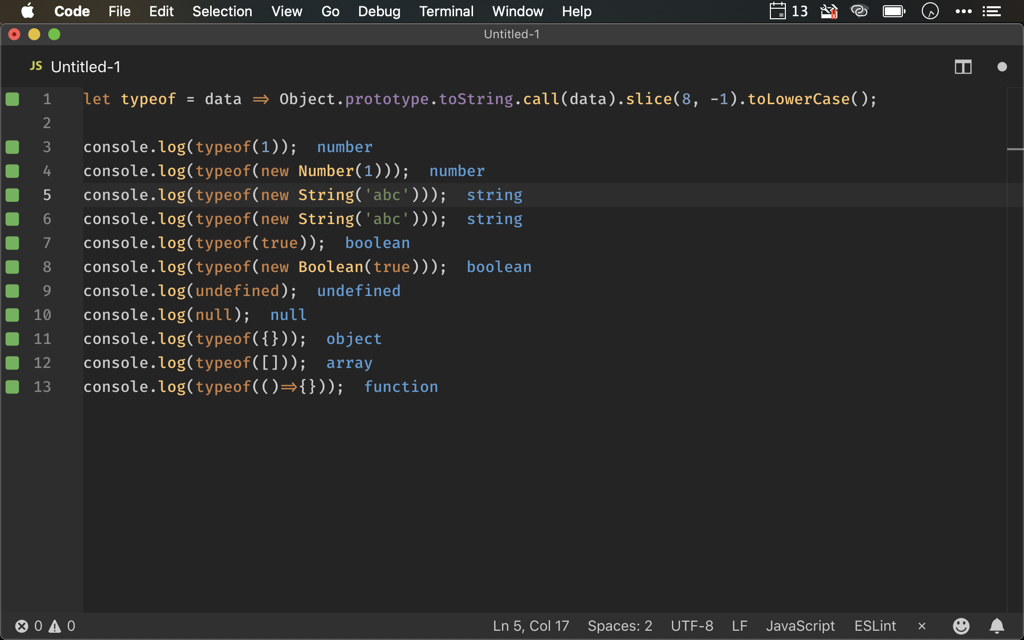
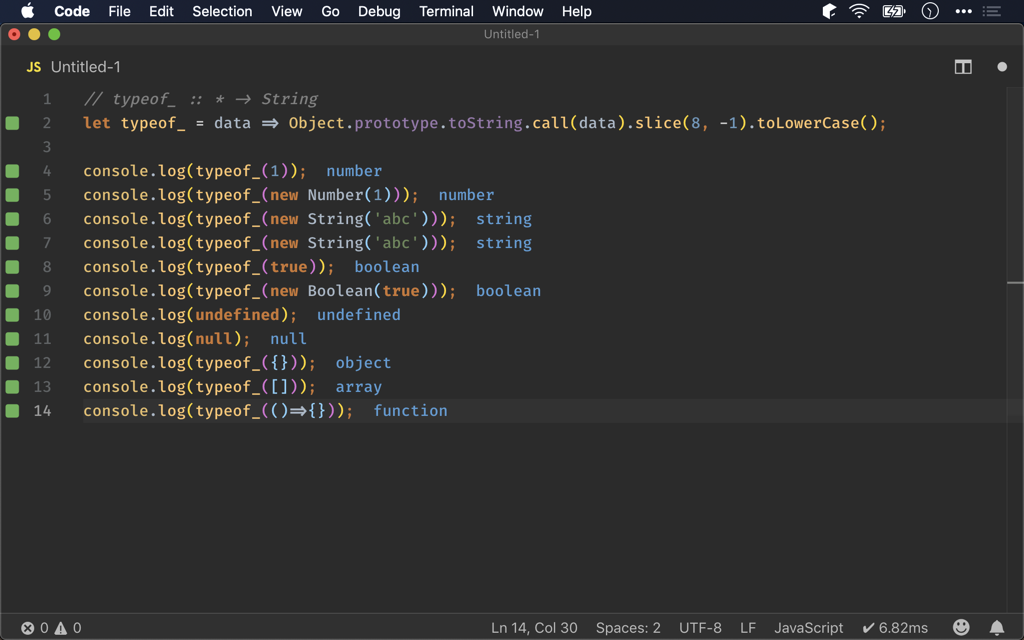
如何判斷 ECMAScript 變數型別 ?

diff --git a/source/_posts/ecmascript/detect-type.md b/source/_posts/ecmascript/detect-type.md
@@ -1,10 +1,11 @@
 title: 如何判斷 ECMAScript 變數型別 ?
 tags:
   - ECMAScript
+  - Ramda
 feature: images/feature/ecmascript.png
 date: 2019-05-22 15:34:43
 ---
-ECMAScript 雖然是 Dynamic Language，但並不代表 Variable 沒有 Type，只是其內建獲得 Type 的方式包含太多 `驚喜`，成為備受爭議的部分。本文整理出 4 種獲得 Type 方式，各有其優缺點，最後整理出自己的 `typeof()`，可以判斷出各種 Type。
+ECMAScript 雖然是 Dynamic Type Language，但並不代表 Variable 沒有 Type，只是其內建獲得 Type 方法包含太多 `驚喜`，成為備受爭議部分。本文整理出 4 種獲得 Type 方式，各有其優缺點，最後自訂 `typeof_()`，可判斷各種 Type。
 
 <!-- more -->
 
@@ -17,13 +18,13 @@ Ramda 0.26.1
 
 ## Type
 
-本文將介紹 5 種獲得 Type 方法：
+本文將介紹 5 種獲得 Type 方式：
 
-1. 內建的 `typeof` operator
-2. 內建的 `instanceof` operator
-3. 內建的 `Object.prototype.toString()` function
-4. Ramda 的 `is()` function
-5. 自己寫的 `typeof()`
+1. 內建的 `typeof` 
+2. 內建的 `instanceof` 
+3. 內建的 `Object.prototype.toString()`
+4. Ramda 的 `is()`
+5. 自訂 `typeof_()`
 
 ## Number
 
@@ -33,7 +34,7 @@ Number 共有 3 種建立方法：
 2. Number function
 3. Number constructor
 
-實務上最常使用的是的 number literal，轉型時會使用 number function (或使用 `+` operator)，但 number constructor 實務上不建議使用。
+實務上最常使用 number literal，轉型時會使用 number function (或使用 `+`)，但 number constructor 實務上不建議使用。
 
 ```javascript
 import { is } from 'ramda';
@@ -62,14 +63,14 @@ console.log(is(Number, new Number(1)));
 **typeof**
 
 * 對於 literal 或 function 所產生的 number 判斷如預期，會回傳 `number`
-* 對於 constructor 所產生的 number，會回傳 `object`，這是比較困擾的地方
+* 對於 constructor 所產生的 number，會回傳 `object`，這是比較困擾之處
 
 **instanceof**
 
 * 對於 literal 或 function 所產生的 number 判斷如預期，會回傳 `false`
 * 對於 constructor 所產生的 number 判斷如預期，會回傳 `true`
 
-> `instanceof` 的邏輯理論上沒錯，但使得 `typeof` 與 `instanceof` 都有其不足，無法同時判斷 literal、function 與 constructor 所建立的 number，實務上並不好用
+> `instanceof` 邏輯理論上沒錯，但 `typeof` 與 `instanceof` 都有其不足，無法同時判斷 literal、function 與 constructor 所建立的 number，實務上並不好用
 
 **Object.prototype.toString()**
 
@@ -91,7 +92,7 @@ String 共有 3 種建立方法：
 2. String function
 3. String constructor
 
-實務上最常使用的是的 string literal，轉型時會使用 string function (或使用 `+ ''` operator)，但 string constructor 實務上不建議使用。
+實務上最常使用 string literal，轉型時會使用 string function (或使用 `+ ''`)，但 string constructor 實務上不建議使用。
 
 ```javascript
 import { is } from 'ramda';
@@ -120,14 +121,14 @@ console.log(is(String, new String('abc')));
 **typeof**
 
 - 對於 literal 或 function 所產生的 string 判斷如預期，會回傳 `string`
-- 對於 constructor 所產生的 string，會回傳 `object`，這是比較困擾的地方
+- 對於 constructor 所產生的 string，會回傳 `object`，這是比較困擾之處
 
 **instanceof**
 
 - 對於 literal 或 function 所產生的 string 判斷如預期，會回傳 `false`
 - 對於 constructor 所產生的 string 判斷如預期，會回傳 `true`
 
-> `instanceof` 的邏輯理論上沒錯，但使得 `typeof` 與 `instanceof` 都有其不足，無法同時判斷 literal、function 與 constructor 所建立的 string，實務上並不好用
+> `instanceof` 邏輯理論上沒錯，但 `typeof` 與 `instanceof` 都有其不足，無法同時判斷 literal、function 與 constructor 所建立的 string，實務上並不好用
 
 **Object.prototype.toString()**
 
@@ -149,23 +150,27 @@ Boolean 共有 3 種建立方法：
 2. Boolean function
 3. Boolean constructor
 
-實務上最常使用的是的 boolean literal，轉型時會使用 boolean function (或使用 `!!` operator，且 ECMAScript 支援 boolean coercion，會自動轉型)，但 boolean constructor 實務上不建議使用。
+實務上最常使用 boolean literal，轉型時會使用 boolean function (或使用 `!!`，且 ECMAScript 支援 boolean coercion，會自動轉型)，但 boolean constructor 實務上不建議使用。
 
 ```javascript
 import { is } from 'ramda';
 
+/** typeof */
 console.log(typeof true);
 console.log(typeof Boolean(true));
 console.log(typeof new Boolean(true));
 
+/** instanceof */
 console.log(true instanceof Boolean);
 console.log(Boolean(true) instanceof Boolean);
 console.log(new Boolean(true) instanceof Boolean);
 
+/** Object.prototype.toString() */
 console.log(Object.prototype.toString.call(true));
 console.log(Object.prototype.toString.call(Boolean(true)));
 console.log(Object.prototype.toString.call(new Boolean(true)));
 
+/** is() */
 console.log(is(Boolean, true));
 console.log(is(Boolean, Boolean(true)));
 console.log(is(Boolean, new Boolean(true)));
@@ -174,14 +179,14 @@ console.log(is(Boolean, new Boolean(true)));
 **typeof**
 
 - 對於 literal 或 function 所產生的 boolean 判斷如預期，會回傳 `boolean`
-- 對於 constructor 所產生的 boolean，會回傳 `object`，這是比較困擾的地方
+- 對於 constructor 所產生的 boolean，會回傳 `object`，這是比較困擾之處
 
 **instanceof**
 
 - 對於 literal 或 function 所產生的 boolean 判斷如預期，會回傳 `false`
 - 對於 constructor 所產生的 boolean 判斷如預期，會回傳 `true`
 
-> `instanceof` 的邏輯理論上沒錯，但使得 `typeof` 與 `instanceof` 都有其不足，無法同時判斷 literal、function 與 constructor 所建立的 boolean，實務上並不好用
+> `instanceof` 邏輯理論上沒錯，但 `typeof` 與 `instanceof` 都有其不足，無法同時判斷 literal、function 與 constructor 所建立的 boolean，實務上並不好用
 
 **Object.prototype.toString()**
 
@@ -197,7 +202,7 @@ console.log(is(Boolean, new Boolean(true)));
 
 ## Undefined
 
-`undefined` 在 ECMAScript 已獨立成一個 type，其值也是 `undefined`。
+`Undefined` 在 ECMAScript 已獨立成一個 type，其值是 `undefined`。
 
 ```javascript
 import { isNil } from 'ramda';
@@ -237,7 +242,7 @@ console.log(isNil(undefined));
 
 ## Null
 
-`null` 在 ECMAScript 已獨立成一個 type，其值也是 `null`。
+`Null` 在 ECMAScript 已獨立成一個 type，其值是 `null`。
 
 ```javascript
 import { isNil } from 'ramda';
@@ -257,7 +262,7 @@ console.log(isNil(null));
 
 **typeof**
 
-* 判斷 `null` 會如預期回傳 `object`，這是已知的 bug，但因為歷史因素，無法修改，變成 feature
+* 判斷 `null` 會如預期回傳 `object`，這是已知的 bug，但因為歷史因素，無法修改，已成 feature
 
 **instanceof**
 
@@ -285,7 +290,7 @@ Object 共有 5 種建立方法：
 4. Class
 5. Object.create()
 
-實務上最常使用的是的 object literal，而 constructor function、class 與 `Object.create()` 都有其適用時機，但 object constructor 實務上不建議使用。
+實務上最常使用 object literal，而 constructor function、class 與 `Object.create()` 都有其適用時機，但 object constructor 實務上不建議使用。
 
 ```javascript
 /** object literal */
@@ -399,7 +404,7 @@ Array 共有 3 種建立方法：
 2. Array function
 3. Array constructor
 
-實務上最常使用的是的 array literal，建立 empty array 時會使用 array function，但 array constructor 實務上不建議使用 (因為效果與 array function 一樣)。
+實務上最常使用 array literal，建立 empty array 時會使用 array function，但 array constructor 實務上不建議使用 (因為效果與 array function 一樣)。
 
 ```javascript
 import { is } from 'ramda';
@@ -427,7 +432,7 @@ console.log(is(Array, new Array(0)));
 
 **typeof**
 
-- 無論使用哪一種方式建立 array，都無法如預期回傳 `array`，而是回傳 `object`，這是比較困擾的地方
+- 無論使用哪一種方式建立 array，都無法如預期回傳 `array`，而是回傳 `object`，這是比較困擾之處
 
 **instanceof**
 
@@ -454,7 +459,7 @@ Function 共有 4 種建立方法：
 3. Function constructor
 4. Arrow function
 
-實務上最常使用的是的 function expression 與 arrow function，function declaration 則漸漸較少使用，但 function constructor 使用機會更少，除非想在 run-time 動態湊出 function。
+實務上最常使用 function expression 與 arrow function，function declaration 則漸漸較少使用，但 function constructor 使用機會更少，除非想在 run-time 動態湊出 function。
 
 ```javascript
 /** function declaration */
@@ -538,34 +543,38 @@ console.log(is(Function, () => {}));
 
 **is()**
 
-- 無論使用哪一種方式建立 object，都會如預期回傳 `true`
+- 無論使用哪一種方式建立 function，都會如預期回傳 `true`
 
 > 對於 function，無論使用 `typeof`、`instanceof`、`Object.prototype.toString()` 或 `is()`，都可以如預期判斷出 function
 
 ![type014](/images/ecmascript/detect-type/type014.png)
 
-## typeof()
+## typeof_()
 
 ```javascript
-let typeof = data => Object.prototype.toString.call(data).slice(8, -1).toLowerCase();
+// typeof_ :: * -> String
+let typeof_ = data => Object.prototype.toString.call(data).slice(8, -1).toLowerCase();
 
-console.log(typeof(1));
-console.log(typeof(new Number(1)));
-console.log(typeof(new String('abc')));
-console.log(typeof(new String('abc')));
-console.log(typeof(true));
-console.log(typeof(new Boolean(true)));
+console.log(typeof_(1));
+console.log(typeof_(new Number(1)));
+console.log(typeof_(new String('abc')));
+console.log(typeof_(new String('abc')));
+console.log(typeof_(true));
+console.log(typeof_(new Boolean(true)));
 console.log(undefined);
 console.log(null);
-console.log(typeof({}));
-console.log(typeof([]));
-console.log(typeof(()=>{}));
+console.log(typeof_({}));
+console.log(typeof_([]));
+console.log(typeof_(()=>{}));
 ```
 
 根據以上經驗，我們發現只有一種方式能抓到所有 type 都正確，那就是 `Object.prototype.toString()`，但其回傳還包含 `[Object ]` 等不需要部分，且 type 是第一個字大寫，因此只要稍作加工，就可以與 `typeof` 完全一樣。
 
+第 1 行
+
 ```javascript
-let typeof = data => Object.prototype.toString.call(data).slice(8, -1).toLowerCase();
+// typeof_ :: * -> String
+let typeof_ = data => Object.prototype.toString.call(data).slice(8, -1).toLowerCase();
 ```
 
 一樣使用 `Object.prototype.toString()`，利用 `slice()` 抓到我們要的部分，最後再 `toLowerCase()` 轉成全小寫。
@@ -577,10 +586,10 @@ let typeof = data => Object.prototype.toString.call(data).slice(8, -1).toLowerCa
 * 使用 literal 或 function 建立的 data，推薦使用 `typeof`，但 `typeof` 無法判斷 `null` (可判斷 `nudefined`) 與以 constructor 建立的 data，也無法判斷 array
 * 使用 constructor 建立的 data，推薦使用 `instanceof`，使用 `typeof` 只會傳回 `object`
 * `instanceof` 無法測試 `null` 與 `undefined`，因為沒有 constructor
-* Ramda 的 `is()` 無法測試 `undefind` 與 `null`，Nullable (`undefined` 與 `null`) 必須使用 `isNil()`，因此也無法達成單一 function 判斷所有 type
+* Ramda 的 `is()` 無法測試 `undefind` 與 `null`，nullable (`undefined` 與 `null`) 必須使用 `isNil()`，因此也無法達成單一 function 判斷所有 type
 * `Object.prototype.toString().call()` 最完整，單一 function 可以判斷所有 type
-* `typeof null` 是 ECMAScript 有名的 bug，已經成為 feature
-* 自己寫的 `typeof()`，則是以 `Object.prototype.toString()` 為根據繼續加工，再搭配 `slice()` 與 `toLowerCase()`，就能打造全型別判斷的 `typeof()`
+* `typeof null` 是 ECMAScript 有名的 bug，已成為 feature
+* 自己寫的 `typeof_()`，則是以 `Object.prototype.toString()` 為基礎，再搭配 `slice()` 與 `toLowerCase()`，打造出全型別判斷的 `typeof_()`
 
 ## Reference
 
@@ -591,4 +600,3 @@ let typeof = data => Object.prototype.toString.call(data).slice(8, -1).toLowerCa
 [MDN](https://developer.mozilla.org/en-US/), [String.prototype.toLowerCase()](https://developer.mozilla.org/en-US/docs/Web/JavaScript/Reference/Global_Objects/String/toLowerCase)
 [Ramda](https://ramdajs.com), [is()](https://ramdajs.com/docs/#is)
 [Ramda](https://ramdajs.com), [isNil()](https://ramdajs.com/docs/#isNil)
-
